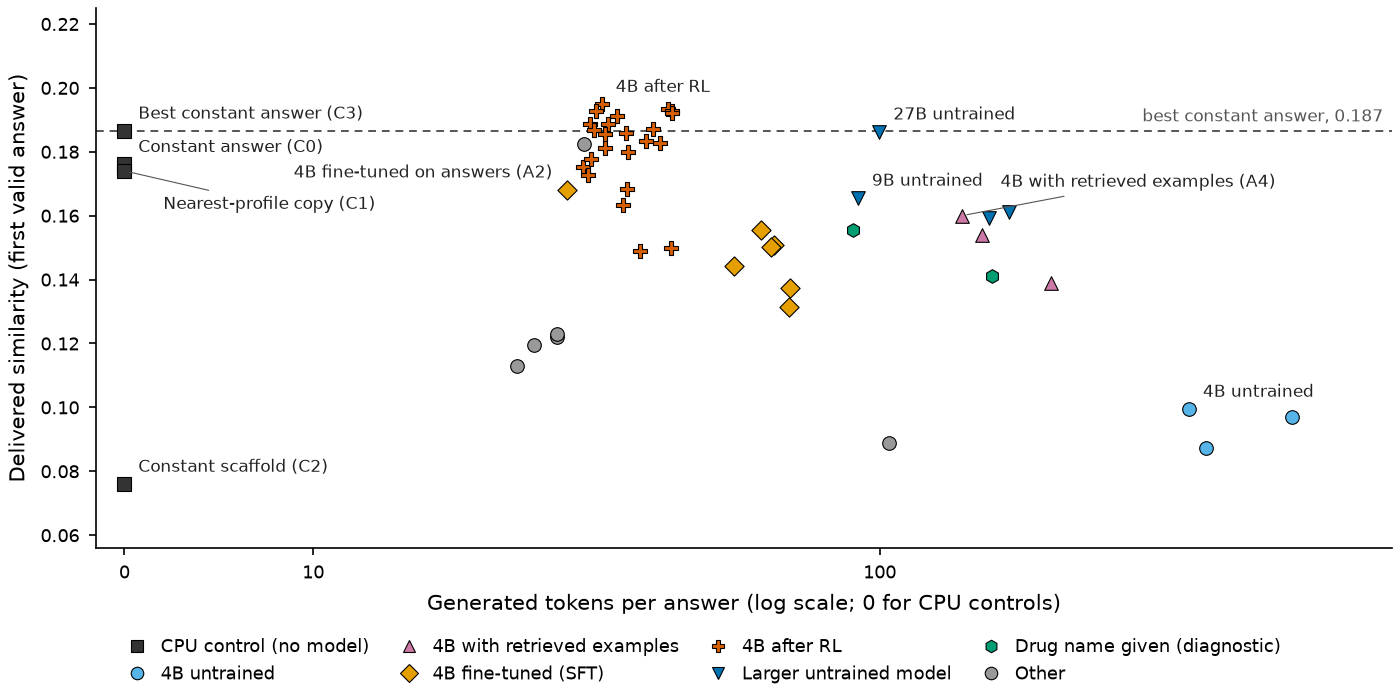
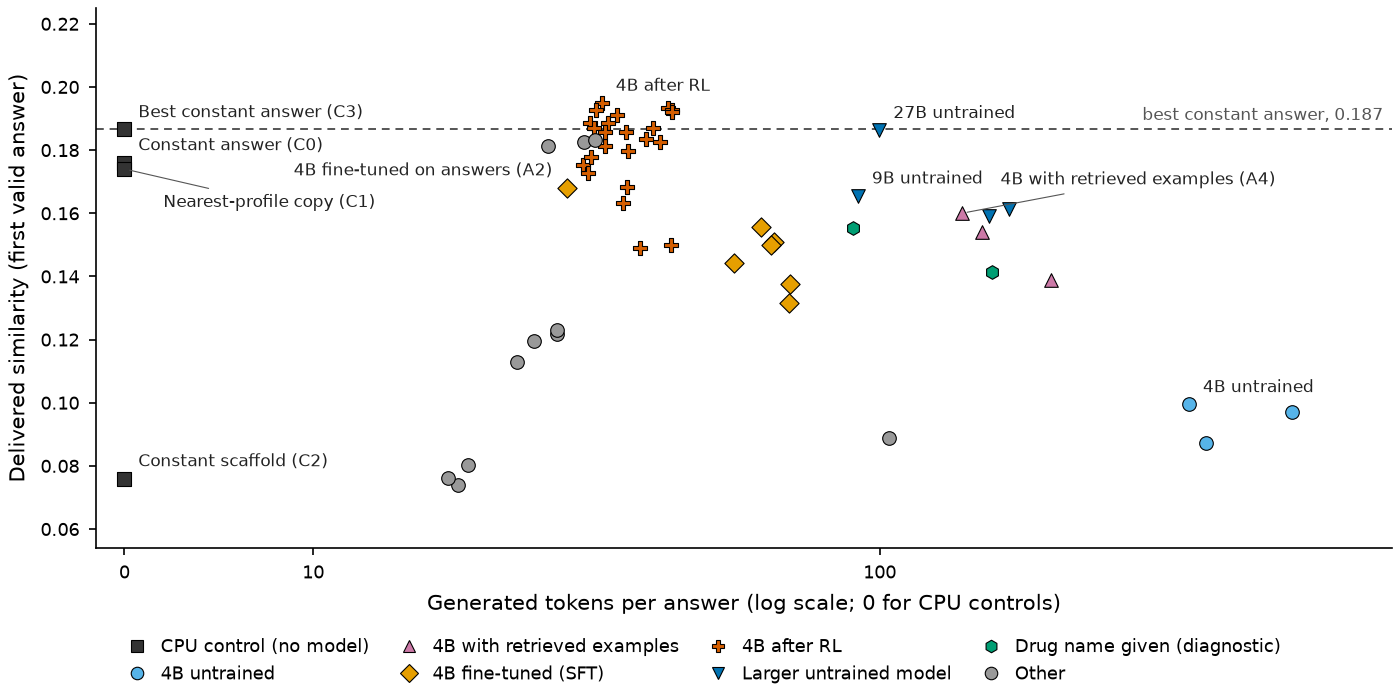
docs(paper): introduction, scale of the metric first, Table 2 with the selected checkpoint, RL as a case study, reward-structure finding, profile counterfactuals of the selected checkpoint; Val table with 64 runs; compute budget with R5 and R2

diff --git a/scripts/compute_budget.py b/scripts/compute_budget.py
@@ -98,7 +98,8 @@ def build(runs, sessions_path):
 def markdown(result):
     lines = ["| Stage | Runs or steps | GPU hours | Note |", "|---|---|---|---|"]
     for r in result["training"]:
-        note = f"{r['kind']}; status {r['status']}" + (f"; includes {r['eval_seconds'] / 60:.0f} min of Val evaluations" if r["kind"] == "RL" else "")
+        status = "last record 'running': the runtime was lost" if r["status"] == "running" else f"status {r['status']}"
+        note = f"{r['kind']}; {status}" + (f"; includes {r['eval_seconds'] / 60:.0f} min of Val evaluations" if r["kind"] == "RL" else "")
         lines.append(f"| {r['label']} | {r['steps']} steps | {r['seconds'] / 3600:.2f} | {note} |")
     for stage, v in sorted(result["sampling"].items()):
         lines.append(f"| {stage} | {v['runs']} runs | {v['wall_seconds'] / 3600:.2f} | vLLM; {v['generation_seconds'] / 3600:.2f} h of it generation |")

diff --git a/scripts/val_table.py b/scripts/val_table.py
@@ -58,6 +58,8 @@ RUNS = [
     ("a2-shuffle-t1.0", "4B A2 shown another drug's profile (shuffled)", "T=1.0, k=8, think mode"),
     ("a2-blank-t1.0", "4B A2 with a blank profile", "T=1.0, k=8, think mode"),
     ("r1s40-shuffle-t0.6", "4B RL-full step 40 shown another drug's profile (shuffled)", "T=0.6, k=8, think mode"),
+    ("r5s50-shuffle-t0.3", "4B RL-full replicate step 50 (the selected checkpoint) shown another drug's profile (shuffled)", "T=0.3, k=8, think mode"),
+    ("r5s50-blank-t0.3", "4B RL-full replicate step 50 (the selected checkpoint) with a blank profile", "T=0.3, k=8, think mode"),
     ("r1s40-blank-t0.6", "4B RL-full step 40 with a blank profile", "T=0.6, k=8, think mode"),
     ("a1-val", "4B A1 (trace SFT, epoch 2)", "T=1.0, k=4, think mode, 8192 tokens"),
     ("b4-t0.6", "4B untrained", "T=0.6, k=8"),

diff --git a/docs/paper/draft.md b/docs/paper/draft.md
@@ -1,8 +1,22 @@
-# How much of a drug's structure can language models recover from its pharmacology profile?
+# Similar is not recovered: controls for language models that predict drug structures from pharmacology profiles
 
-*A controls-first evaluation with deployable and profile-association metrics, and a bounded reinforcement-learning case study (working title)*
+*Working title. A controls-first, pre-registered evaluation with a constant-answer bar, a shuffled-profile counterfactual and a bounded reinforcement-learning case study.*
 
-**Draft status, 2026-10-17.** Everything except Results and Discussion is drafted from the repository record. A number is followed by an HTML comment naming the file that records it; pending results are marked [TBD: what, from which run]. No language model has been run on a Test split, and the protocol is frozen under a version-control tag before any is ([TBD: date of the freeze]). <!-- docs/prereg-v1.md -->
+**Draft status, 2026-10-18.** A number is followed by an HTML comment naming the file that records it; pending results are marked [TBD: what, from which run]. The protocol was frozen by the git tag `prereg-v1` before any Test sample existed; the Test run is limited to the Qwen3.5-4B arms (the larger models are Val-only references). <!-- docs/prereg-v1.md; git tag prereg-v1 -->
+
+## Abstract
+
+[TBD: written after the locked Test run; skeleton in `.agent-runs/advisor/fable_round1.md` section 3.]
+
+## Introduction
+
+Language models are increasingly asked to propose molecules from text, and reinforcement learning with verifiable rewards is the fashionable way to improve them: a graded similarity between a generated structure and a reference supplies a cheap, automatic reward. We ask whether that recipe adds anything on a concrete task whose answer is known. The input is a written pharmacology profile of an approved drug with its name withheld; the output is the drug's structure as a SMILES string, scored against the registry structure.
+
+The difficulty is not training; it is knowing what a score means. A similarity of 0.19 between Morgan count fingerprints sounds like partial success, but a generic drug-like molecule scores about that against any approved drug, so a reward that pays for similarity can be raised by answers that ignore the input. A study of this task therefore has to answer, before it reports any gain, what a zero-cost answer achieves, what a random pair of approved drugs scores, whether the model's answer depends on the drug at all, and what the score costs in samples and tokens.
+
+We built the study controls-first and pre-registered it. One endpoint, the similarity of the first valid answer among eight samples at a stated cost, and one confirmatory contrast, the Val-selected RL checkpoint against the best of six tuned alternatives, are fixed by a git tag before any held-out sample exists. The alternatives include a reward-optimal constant answer chosen from the training molecules and a public drug pool, a copy of the nearest training profile's structure, untrained, retrieval-augmented and supervised fine-tuned models, and the held-out data include a temporal cohort of 41 drugs first approved in 2025 and 2026. Counterfactual and constant-proof readouts, a shuffled-profile run and a rank of the true drug among the split's own references, say whether a model uses the profile when the headline metric cannot.
+
+Our contributions are: (1) a protocol and a set of controls that can be applied to any similarity-scored text-to-structure result, released with the code and the split manifest; (2) the finding that on this task the fingerprint-similarity reward is raised by becoming generic, so that online RL reaches, and does not pass, the ceiling of a constant answer, while validity-only RL degrades to trivially valid answers; (3) a measurement of the small drug-specific signal that remains in the profile, larger for supervised fine-tuning than for RL, and of how much of it each arm uses; and (4) a cost accounting of the whole study.
 
 ## 1. Task and data
 
@@ -81,11 +95,15 @@ Every arm is trained or tuned on Train only, selected on Val only, and scored on
 
 ## 5. Results
 
-Sections 5.1 to 5.3 are validation data (Val: 20 drugs, 58 prompt rows), the data on which every trained arm, decoding setting and checkpoint was chosen, so they are selection results, not evidence that anything generalises. Section 5.4 is reserved for the locked Test run. All intervals are 95% percentile intervals from a bootstrap over drugs, descriptive at this size. <!-- results/val_baselines.json; results/figures/table_val.md -->
+Sections 5.1 to 5.4 are validation data (Val: 20 drugs, 58 prompt rows), the data on which every trained arm, decoding setting and checkpoint was chosen, so they are selection results, not evidence that anything generalises. Section 5.5 is reserved for the locked Test run. All intervals are 95% percentile intervals from a bootstrap over drugs, descriptive at this size. <!-- results/val_baselines.json; results/figures/table_val.md -->
 
-### 5.1 What the arms deliver on Val
+### 5.1 What the numbers mean: the scale of the metric
 
-No arm recovers a structure. Exact recovery is 0 for every run, and core recovery (an identity match or a shared scaffold) is at most 5%, reached by the untrained 27B (Table 2). The best constant answer, C3, delivers a first-valid similarity of 0.187, and even C1, which copies the structure of the Train drug whose profile text is closest, delivers 0.174. Only two arms reach the constant's level: the untrained Qwen3.5-27B (0.186) and the RL arm (0.189 at step 40). Neither differs from C3 by more than 0.003, far inside the intervals of a 20-drug split. <!-- results/val_baselines.json -->
+Delivered similarity is a Tanimoto score between Morgan count vectors, and its scale is easy to misjudge. Over the 332 usable reference structures, two distinct approved drugs have a mean similarity of 0.141 (75th percentile 0.180, 90th 0.213, 99th 0.274; 54,946 pairs). A constant answer chosen from the training molecules (C0) delivers 0.176 on Val, the 73rd percentile of random pairs; the reward-optimal constant C3 delivers 0.187 (79th); the best constant that any candidate of our pool could have been on Val (the oracle constant, from reference structures only) is 0.195 (83rd); even an oracle that copies for each drug the nearest Train structure reaches only 0.31 (the 99.7th). Every arm in this study sits between the random-pair mean and the oracle constant: in the band where a constant answer lives. <!-- computed from data/processed/refs.jsonl, reference structures only (scripts/random_pair_calibration.py); results/constant_ceiling.json; docs/plan.md section 5 for the nearest-Train oracle -->
+
+### 5.2 The arms on Val
+
+No arm recovers a structure. Exact recovery is 0 for every run, and core recovery (an identity match or a shared scaffold) is at most 5%, reached by the untrained 27B (Table 2). The best constant answer, C3, delivers 0.187, and even C1, which copies the structure of the Train drug whose profile text is closest, delivers 0.174. Two arms reach the constant's level: the untrained Qwen3.5-27B (0.186) and the Val-selected RL checkpoint (0.195). The 0.195 is optimistic: that checkpoint, with its step and temperature, was the best of 21 RL candidates on these 20 drugs, and its margin over C3 (+0.008; 12 wins and 8 losses over the drugs, sign-flip p 0.66) is smaller than the 0.02 to 0.04 that 41 drugs can detect. <!-- results/val_baselines.json -->
 
 **Table 2.** Val, each arm at its Val-selected decoding (eight samples per prompt, the endpoint's k). "Delivered similarity" is the endpoint (Section 3); "samples per answer" is its cost in draws; lift is the profile-specific association (Section 3). The CPU controls repeat one deterministic answer.
 
@@ -98,22 +116,24 @@ No arm recovers a structure. Exact recovery is 0 for every run, and core recover
 | 4B untrained (A0n) | T=0.6 | 0.25 | 0.099 [0.075, 0.128] | 4.34 | 0.011 [-0.001, 0.025] | 0.042 | 0.013 |
 | 4B + 3 retrieved examples (A4) | T=0.6 | 0.68 | 0.160 [0.140, 0.186] | 1.66 | 0.021 [0.006, 0.041] | 0.118 | 0.014 |
 | 4B answer-only SFT (A2) | T=1.0 | 0.56 | 0.156 [0.138, 0.177] | 1.54 | 0.020 [0.005, 0.038] | 0.079 | 0.004 |
-| 4B RL-full, step 40 (A5) | T=0.6 | 0.98 | 0.189 [0.167, 0.213] | 1.02 | 0.008 [-0.014, 0.034] | 0.181 | 0.000 |
-| 4B RL-contrastive, step 10 (A5, run cut short) | T=1.0 | 0.88 | 0.123 [0.111, 0.134] | 1.08 | 0.005 [-0.006, 0.015] | 0.115 | 0.045 |
+| 4B RL-full, replicate step 50 (the Val-selected A5) | T=0.3 | 1.00 | 0.195 [0.170, 0.225] | 1.00 | 0.013 [-0.012, 0.044] | 0.193 | 0.009 |
+| 4B RL-full, pilot step 40 | T=0.6 | 0.98 | 0.189 [0.167, 0.213] | 1.02 | 0.008 [-0.014, 0.034] | 0.181 | 0.000 |
+| 4B RL validity-only, step 40 (control) | T=0.6 | 1.00 | 0.080 [0.065, 0.092] | 1.00 | 0.003 [-0.011, 0.014] | 0.080 | 0.000 |
+| 4B RL-contrastive, step 10 (run cut short) | T=1.0 | 0.88 | 0.123 [0.111, 0.134] | 1.08 | 0.005 [-0.006, 0.015] | 0.115 | 0.045 |
 | 9B untrained | T=0.6 | 0.63 | 0.166 [0.139, 0.188] | 1.77 | 0.028 [-0.000, 0.051] | 0.108 | 0.013 |
 | Qwen3.5-27B-FP8 untrained | T=1.0 | 0.67 | 0.186 [0.157, 0.210] | 1.52 | 0.045 [0.011, 0.075] | 0.121 | 0.048 |
 
-<!-- Table 2: results/val_baselines.json rows val8-control_*, b4-t0.6, a4-t0.6, a2-val, rlfull-s40-t0.6, r3s10-t1.0, b9-t0.6, b27-direct; the full table with every decoding setting is results/figures/table_val.md. A1 (trace SFT) and the Qwen3.8-27B run have fewer than eight samples per prompt and no endpoint: A1 delivers 0.152 similarity on its valid answers (33% valid), Qwen3.8-27B 0.103 mean similarity (62% valid). -->
+<!-- Table 2: results/val_baselines.json; the full table with every decoding setting is results/figures/table_val.md. A1 (trace SFT) and the Qwen3.8-27B run have fewer than eight samples per prompt and no endpoint: A1 delivers 0.152 similarity on its valid answers (33% valid), Qwen3.8-27B 0.103 mean similarity (62% valid). -->
 
-Three facts organise the table. First, a constant is a strong bar, and nothing that reads the profile clearly clears it. Second, validity is the main lever of the trained arms: supervised fine-tuning raised the valid share of the 4B from 25% to 56%, RL to 98%, while the similarity of the valid answers moved only from 0.14 (untrained) to 0.14 (A2) and 0.19 (RL). Third, size helps modestly: 0.099 (4B), 0.166 (9B) and 0.186 (27B), and the 27B is the one arm whose lift interval clearly excludes zero, but it reaches the constant, not beyond it. <!-- results/val_baselines.json (tanimoto_valid column) -->
+Three facts organise the table. First, a constant is a strong bar, and nothing that reads the profile clearly clears it. Second, validity is the main lever of the trained arms but not a sufficient one: supervised fine-tuning raised the valid share of the 4B from 25% to 56% and RL to 98% or more, while the similarity of the valid answers moved only from 0.14 (untrained) to 0.14 (A2) and 0.19 (RL), and RL with a validity-only reward reaches 99% valid answers and delivers 0.080. Third, size helps modestly: 0.099 (4B), 0.166 (9B) and 0.186 (27B), and the 27B is the one arm whose lift interval clearly excludes zero, but it reaches the constant, not beyond it. <!-- results/val_baselines.json (tanimoto_valid column) -->
 
-Two sources of noise matter for reading differences. Re-sampling the same adapter with other sampler seeds moves delivered similarity by about 0.003 (RL step 40: 0.189, 0.189, 0.186; A2: 0.156, 0.151, 0.150), so gaps below 0.005 between settings of one arm are noise. The drug sample is the larger source: intervals are about plus or minus 0.02, and every choice made here was made on the same 20 drugs. <!-- runs/colab-s1/*-seed* ; results/val_baselines.json -->
+Two sources of noise matter for reading differences. Re-sampling the same adapter with other sampler seeds moves delivered similarity by about 0.003 for A2 at T=1.0 (0.156, 0.151, 0.150) and by 0.0004 for the selected RL checkpoint at T=0.3 (0.1949, 0.1952, 0.1948), so gaps below 0.005 between settings of one arm are noise. The drug sample is the larger source: intervals are about plus or minus 0.02, and every choice made here was made on the same 20 drugs. <!-- runs/colab-s1/*-seed*; results/gate_dryrun.json -->
 
-### 5.2 What RL changed
+### 5.3 Reinforcement learning as a case study: what the reward selects
 
-RL started from A2 (56% valid, delivered similarity 0.156). In the pilot run (R1: 24 drugs per step, eight samples each, 40 steps) the answers became valid within 20 steps (98%) and the delivered similarity at steps 10, 20, 30 and 40 rose to 0.163, 0.175, 0.178 and 0.186 at T=0.3 (0.150, 0.168, 0.180 and 0.189 at T=0.6; Figure 3). Because that curve was still rising, a replicate with another seed (R5, up to 100 steps) was added before any Test sample. It followed the same path to step 40 (0.183 at T=0.3 and T=0.6, 0.187 at T=1.0), reached its best at step 50 (0.195 at T=0.3, 0.193 at T=0.6) and held it at step 60 (0.193), then stopped itself at step 63 on its collapse rule. The Val-selected checkpoint is therefore R5 step 50 at T=0.3, with delivered similarity 0.195 against 0.187 for the best constant C3 and 0.195 for the best constant that any candidate of our pool could have been on Val (the oracle constant, from reference structures only). Paired over the 20 drugs, the checkpoint beats C3 on 12 and loses on 8 (mean difference +0.008, sign-flip p 0.66; descriptive, since the checkpoint was selected on these drugs). <!-- results/val_baselines.json (rlfull5-* rows); results/selection.json; results/constant_ceiling.json; runs/rl/R5/summary.json (status stopped_collapse, step 63) -->
+RL started from A2 (56% valid, delivered similarity 0.156). In the pilot run (R1: 24 drugs per step, eight samples each, 40 steps) the answers became valid within 20 steps (98%) and the delivered similarity at steps 10, 20, 30 and 40 rose to 0.163, 0.175, 0.178 and 0.186 at T=0.3 (0.150, 0.168, 0.180 and 0.189 at T=0.6; Figure 3). Because that curve was still rising, a replicate with another seed (R5, a budget of 100 steps) was added before any Test sample. It followed the same path to step 40 (0.183 at T=0.3 and T=0.6, 0.187 at T=1.0), reached its best at step 50 (0.195 at T=0.3, 0.193 at T=0.6) and held it at step 60 (0.193), then stopped itself at step 63 on its collapse rule. The Val-selected checkpoint is therefore R5 step 50 at T=0.3, with delivered similarity 0.195 against 0.187 for the best constant C3 and 0.195 for the best constant that any candidate of our pool could have been on Val (the oracle constant). <!-- results/val_baselines.json (rlfull5-* rows); results/selection.json; results/constant_ceiling.json; runs/rl/R5/summary.json (status stopped_collapse, step 63) -->
 
-The gain is not knowledge of the drug. Lift stays near zero (R5 step 50: fv_lift 0.009, interval [-0.013, 0.034]) and the answers converge: the mean similarity between the answers given to different drugs rises from 0.13 (A2) to 0.46 (pilot, step 40) and 0.51 (R5 step 50), the most common structure grows from 0.4% to 14% and 20% of the usable answers, and the mean similarity of the answers to the C3 constant rises from 0.17 to 0.27 and 0.30 (Table 3). No answer is the C3 molecule itself. RL learned to write a valid, generic structure close to the one that is best for the reward, which is what a constant does; when it collapsed further (R5 step 63: a single structure in 12% of a training batch, collapse score 0.54 to 0.62), the Val gain stopped. <!-- results/answer_diversity.json; results/figures/f3_rl_training.png -->
+The gain is not knowledge of the drug. Lift stays near zero (R5 step 50: fv_lift 0.013, interval [-0.012, 0.044]) and the answers converge: the mean similarity between the answers given to different drugs rises from 0.13 (A2) to 0.46 (pilot, step 40) and 0.51 (R5 step 50), the most common structure grows from 0.4% to 14% and 20% of the usable answers, and the mean similarity of the answers to the C3 constant rises from 0.17 to 0.27 and 0.30 (Table 3). No answer is the C3 molecule itself. RL learned to write a valid, generic structure close to the one that is best for the reward, which is what a constant does; when it collapsed further (R5 step 63: a single structure in 12% of a training batch, collapse score 0.54 to 0.62), the Val gain stopped. <!-- results/answer_diversity.json; results/figures/f3_rl_training.png -->
 
 **Table 3.** How concentrated the usable answers are on Val (valid, closed, finished answers pooled over the eight samples of every prompt; aggregates only).
 
@@ -131,13 +151,15 @@ The gain is not knowledge of the drug. Lift stays near zero (R5 step 50: fv_lift
 
 <!-- Table 3: results/answer_diversity.json (scripts/answer_diversity.py) -->
 
-The contrastive reward, which pays only for similarity beyond what an answer would score against the other drugs' references, did worse: 0.113 to 0.123 at steps 10 and 20, below its A2 start. Its run was cut short by the loss of the compute runtime at about step 28 of 40, so no later checkpoint exists. Validity-only RL (R2: the R1 recipe with reward 1 for a valid, closed, finished answer and 0 otherwise) shows that validity alone is not what moves the standard reward. It reaches 99% valid answers by step 30, but its delivered similarity falls from 0.148 (the A2 start, in-training evaluation at T=1.0) to 0.078 at step 40 (0.074 to 0.080 when the step-40 adapter is re-sampled with vLLM at the three grid temperatures): the answers become short, trivially valid structures (17 tokens against 39, valid-answer similarity 0.078 against 0.142), the reverse of the generic structure that the similarity reward selects. [TBD: the profile-free RL run (R4), the standard reward with the profile removed, if it finishes.] <!-- runs/rl/R2/evals.jsonl, summary.json (status complete, 40 steps) --> <!-- results/val_baselines.json (r3s* rows); docs/memory/status-main.md -->
+Two further runs show what shapes this outcome. Validity-only RL (R2: the R1 recipe with reward 1 for a valid, closed, finished answer and 0 otherwise) reaches 99% valid answers by step 30, but its delivered similarity falls from 0.148 (the A2 start, in-training evaluation at T=1.0) to 0.078 at step 40 (0.074 to 0.080 when the step-40 adapter is re-sampled with vLLM at the three grid temperatures): the answers become short, trivially valid structures (17 tokens against 39, valid-answer similarity 0.078 against 0.142), the reverse of the generic structure that the similarity reward selects. The contrastive reward, which pays only for similarity beyond what an answer would score against the other drugs' references, did worse: 0.113 to 0.123 at steps 10 and 20, below its A2 start; its run was cut short by the loss of the compute runtime at about step 28 of 40, so no later checkpoint exists. [TBD: the profile-free RL run (R4), the standard reward with the profile removed, if it finishes.] <!-- runs/rl/R2/evals.jsonl, summary.json (status complete, 40 steps); results/val_baselines.json (rlvalidity-* and r3s* rows) -->
 
-### 5.3 Does any arm use the profile?
+The reward structure explains why. Within a group of eight valid answers the reward ranks almost nothing: the share of prompts whose valid answers have a reward standard deviation of at least 0.05 never exceeds 15.5% for any run (5.2% for A2 at T=1.0, 0 to 5% for the RL checkpoints against the 30% the protocol asked for), so the advantage a group-relative method can use lies between valid and invalid answers and between generic and unusual structures, not between a drug's right and wrong neighbours. <!-- results/t5.json -->
 
-Showing each row the profile of another drug lowers A2's delivered similarity from 0.156 to 0.131 and the RL arm's from 0.189 to 0.183. Paired over drugs, the similarity of the valid answers falls by 0.013 [0.004, 0.022] for A2 and by 0.009 [0.003, 0.015] for the RL arm (descriptive intervals; 20 drugs). A blank profile (one fixed prompt, so the eight draws are shared by every row) leaves the RL arm writing a valid answer every time, with valid-answer similarity 0.165 against 0.178 shuffled and 0.187 with the real profile; for A2 it raises the valid share from 0.56 to 0.72. The profile therefore carries a small signal, about 0.01 to 0.02 Tanimoto, as the copy-nearest control (lift +0.022) also indicates, and it is dwarfed by the 0.19 that a well-chosen constant delivers. Under the criteria of Section 3 for the word "profile", no arm qualifies on Val: the RL arm's lift interval includes zero, and A2 (0.020), A4 (0.021) and the 27B (0.045, no shuffled run exists) are not clearly above the copy-nearest control (0.022). <!-- results/val_baselines.json (a2-shuffle-t1.0, r1s40-shuffle-t0.6, *-blank-*); paired reports in runs/colab-s1 -->
+### 5.4 Does any arm use the profile?
 
-### 5.4 Locked Test run
+Showing each row the profile of another drug lowers A2's delivered similarity from 0.156 to 0.131 (paired sign-flip p 0.022; 13 wins and 7 losses over the 20 drugs) and the selected RL checkpoint's from 0.195 to 0.183 (+0.012 for the real profile, interval [0.003, 0.020]; 13 wins and 7 losses; p 0.034); the similarity of its valid answers falls from 0.193 to 0.181 (p 0.0095). A blank profile (one fixed prompt, so the eight draws are shared by every row, and only the similarity of its valid answers, 0.182, is read, never its first-valid value) leaves the RL checkpoint at the same level as the shuffled profile. The profile therefore carries a small drug-specific signal, about 0.01 to 0.02 Tanimoto, as the copy-nearest control (lift +0.022) also indicates, and it is dwarfed by the 0.19 that a well-chosen constant delivers. Lift, the profile-specific association of Section 3, is a diagnostic only: it is biased for near-constant policies. [TBD: the rank readout, whose chance value is exact for any answer that ignores the drug, from the pre-scoring addendum.] <!-- results/val_baselines.json (a2-shuffle-t1.0, r5s50-shuffle-t0.3, r5s50-blank-t0.3); paired reports in runs/colab-s1 -->
+
+### 5.5 Locked Test run
 
 [TBD: Tables of the Test-T and Test-R runs, the confirmatory contrast, and the exploratory comparisons, from the locked Test run.] Planned tables and figures, each with its feeding file:
 

diff --git a/docs/paper/compute_budget.md b/docs/paper/compute_budget.md
@@ -3,24 +3,26 @@
 | SFT A2 (answer-only, 3 epochs) | 129 steps | 0.15 | SFT; status complete |
 | SFT A1 (reasoning traces, 2 epochs) | 84 steps | 0.42 | SFT; status complete |
 | RL-full pilot R1 (40 steps) | 40 steps | 0.80 | RL; status complete; includes 3 min of Val evaluations |
-| RL-contrastive R3 (cut by a runtime loss) | 29 steps | 0.59 | RL; status running; includes 4 min of Val evaluations |
+| RL-contrastive R3 (cut by a runtime loss) | 29 steps | 0.59 | RL; last record 'running': the runtime was lost; includes 4 min of Val evaluations |
+| RL-full replicate R5 (seed 1) | 63 steps | 1.46 | RL; status stopped_collapse; includes 10 min of Val evaluations |
+| RL-validity R2 | 40 steps | 0.73 | RL; status complete; includes 6 min of Val evaluations |
 | 27B untrained (Qwen3.5 and Qwen3.8) | 2 runs | 0.57 | vLLM; 0.47 h of it generation |
-| 4B untrained and prompt probes | 8 runs | 0.51 | vLLM; 0.40 h of it generation |
+| 4B untrained and prompt probes | 11 runs | 0.57 | vLLM; 0.43 h of it generation |
 | 9B untrained | 5 runs | 0.22 | vLLM; 0.10 h of it generation |
 | A1 Val sampling | 1 runs | 0.36 | vLLM; 0.52 h of it generation |
 | A2 Val sampling | 6 runs | 0.16 | vLLM; 0.09 h of it generation |
 | A4 Val sampling | 3 runs | 0.17 | vLLM; 0.13 h of it generation |
 | Diagnostics: identification and name-given | 8 runs | 0.34 | vLLM; 0.15 h of it generation |
-| Diagnostics: shuffled and blank profile | 4 runs | 0.12 | vLLM; 0.03 h of it generation |
-| RL checkpoints: Val re-sampling | 12 runs | 0.25 | vLLM; 0.11 h of it generation |
-| **Total logged** | | **4.65** | training 1.96 h, sampling 2.69 h |
+| Diagnostics: shuffled and blank profile | 6 runs | 0.15 | vLLM; 0.04 h of it generation |
+| RL checkpoints: Val re-sampling | 21 runs | 0.44 | vLLM; 0.19 h of it generation |
+| **Total logged** | | **7.12** | training 4.15 h, sampling 2.97 h |
 
-Colab runtime sessions (as of 2026-10-17T22:30:00Z):
+Colab runtime sessions (as of 2026-10-18T02:00:00Z):
 
 | Runtime | GPU | Hours | How it ended |
 |---|---|---|---|
 | 2026-10-17T12:10:00Z to 2026-10-17T20:35:00Z | Colab A100-SXM4-40GB (runtime 1) | 8.42 | disappeared; adapters and Val evaluations were on Drive, resumable RL checkpoints were not |
-| 2026-10-17T20:57:00Z to running | Colab A100-SXM4-40GB (runtime 2) | 1.55 | rebuilt from the bootstrap bundle; running |
+| 2026-10-17T20:57:00Z to running | Colab A100-SXM4-40GB (runtime 2) | 5.05 | rebuilt from the bootstrap bundle; running |
 | quota to quota | Kaggle T4 quota | 0.29 | a 14-minute probe session billed before it was cancelled, plus one 3.3-minute smoke run |
 
 Run directories without a meta.json, not counted (20): colab-s1/a1-val-partial, colab-s1/rlfull-s20-t0.6, colab-s1/rlfull-s20-t1.0, colab-s1/rlfull-s30-t0.6, colab-s1/rlfull-s30-t1.0, colab-s1/rlfull-s40-t0.6, colab-s1/rlfull-s40-t1.0, colab-s1/strict-a-direct, colab-s1/strict-a2-val, colab-s1/strict-a4-icl, colab-s1/strict-b27-direct, colab-s1/strict-b9-t0.6, colab-s1/strict-rlfull-s40-t0.6, colab-s1/val-control_constant, colab-s1/val-control_constant_scaffold, colab-s1/val-control_copy_nearest, colab-s1/val8-control_constant, colab-s1/val8-control_constant_pool, colab-s1/val8-control_constant_scaffold, colab-s1/val8-control_copy_nearest

diff --git a/results/figures/table_val.md b/results/figures/table_val.md
@@ -34,6 +34,9 @@
 | 4B A2 | T=0.3, k=8, think mode | 0.811 | 0.137 | 1.25 | 69.5 | +0.005 | +0.008 | 0.117 | 0.003 | 0.000 |
 | 4B RL-full step 40, sampler seed 1 | T=0.6, k=8, think mode | 0.977 | 0.189 | 1.07 | 33.2 | +0.008 | +0.005 | 0.181 | 0.000 | 0.000 |
 | 4B RL-full step 40, sampler seed 2 | T=0.6, k=8, think mode | 0.980 | 0.186 | 1.04 | 32.7 | +0.005 | +0.004 | 0.182 | 0.000 | 0.000 |
+| 4B RL-validity-only step 40 (control) | T=0.3, k=8, think mode | 0.998 | 0.074 | 1.00 | 18.0 | +0.002 | +0.006 | 0.078 | 0.000 | 0.000 |
+| 4B RL-validity-only step 40 (control) | T=0.6, k=8, think mode | 0.998 | 0.080 | 1.00 | 18.8 | +0.003 | +0.005 | 0.080 | 0.000 | 0.000 |
+| 4B RL-validity-only step 40 (control) | T=1.0, k=8, think mode | 0.995 | 0.076 | 1.01 | 17.3 | +0.001 | +0.004 | 0.080 | 0.002 | 0.000 |
 | 4B RL-contrastive step 10 (run cut short) | T=0.6, k=8, think mode | 0.961 | 0.122 | 1.05 | 27.0 | +0.005 | +0.010 | 0.127 | 0.046 | 0.000 |
 | 4B RL-contrastive step 10 (run cut short) | T=1.0, k=8, think mode | 0.885 | 0.123 | 1.08 | 27.0 | +0.005 | +0.008 | 0.115 | 0.045 | 0.000 |
 | 4B RL-contrastive step 20 (run cut short) | T=0.6, k=8, think mode | 0.994 | 0.113 | 1.00 | 22.9 | +0.010 | +0.009 | 0.114 | 0.021 | 0.000 |
@@ -43,6 +46,8 @@
 | 4B A2 shown another drug's profile (shuffled) | T=1.0, k=8, think mode | 0.565 | 0.131 | 1.76 | 69.2 | -0.007 | -0.002 | 0.074 | 0.002 | 0.000 |
 | 4B A2 with a blank profile | T=1.0, k=8, think mode | 0.721 | 0.168 | 1.00 | 28.0 | +0.000 | +0.000 | 0.114 | 0.000 | 0.000 |
 | 4B RL-full step 40 shown another drug's profile (shuffled) | T=0.6, k=8, think mode | 0.977 | 0.183 | 1.00 | 30.1 | +0.002 | -0.004 | 0.173 | 0.000 | 0.000 |
+| 4B RL-full replicate step 50 (the selected checkpoint) shown another drug's profile (shuffled) | T=0.3, k=8, think mode | 1.000 | 0.183 | 1.00 | 31.4 | +0.001 | -0.001 | 0.181 | 0.000 | 0.000 |
+| 4B RL-full replicate step 50 (the selected checkpoint) with a blank profile | T=0.3, k=8, think mode | 1.000 | 0.181 | 1.00 | 26.0 | +0.000 | +0.000 | 0.182 | 0.000 | 0.000 |
 | 4B RL-full step 40 with a blank profile | T=0.6, k=8, think mode | 1.000 | 0.089 | 1.00 | 104.0 | +0.000 | +0.000 | 0.165 | 0.000 | 0.000 |
 | 4B A1 (trace SFT, epoch 2) | T=1.0, k=4, think mode, 8192 tokens | 0.328 | n/a | n/a | n/a | n/a | +0.003 | 0.048 | 0.000 | 0.000 |
 | 4B untrained | T=0.6, k=8 | 0.254 | 0.099 | 4.34 | 351.5 | +0.011 | +0.008 | 0.042 | 0.013 | 0.000 |
